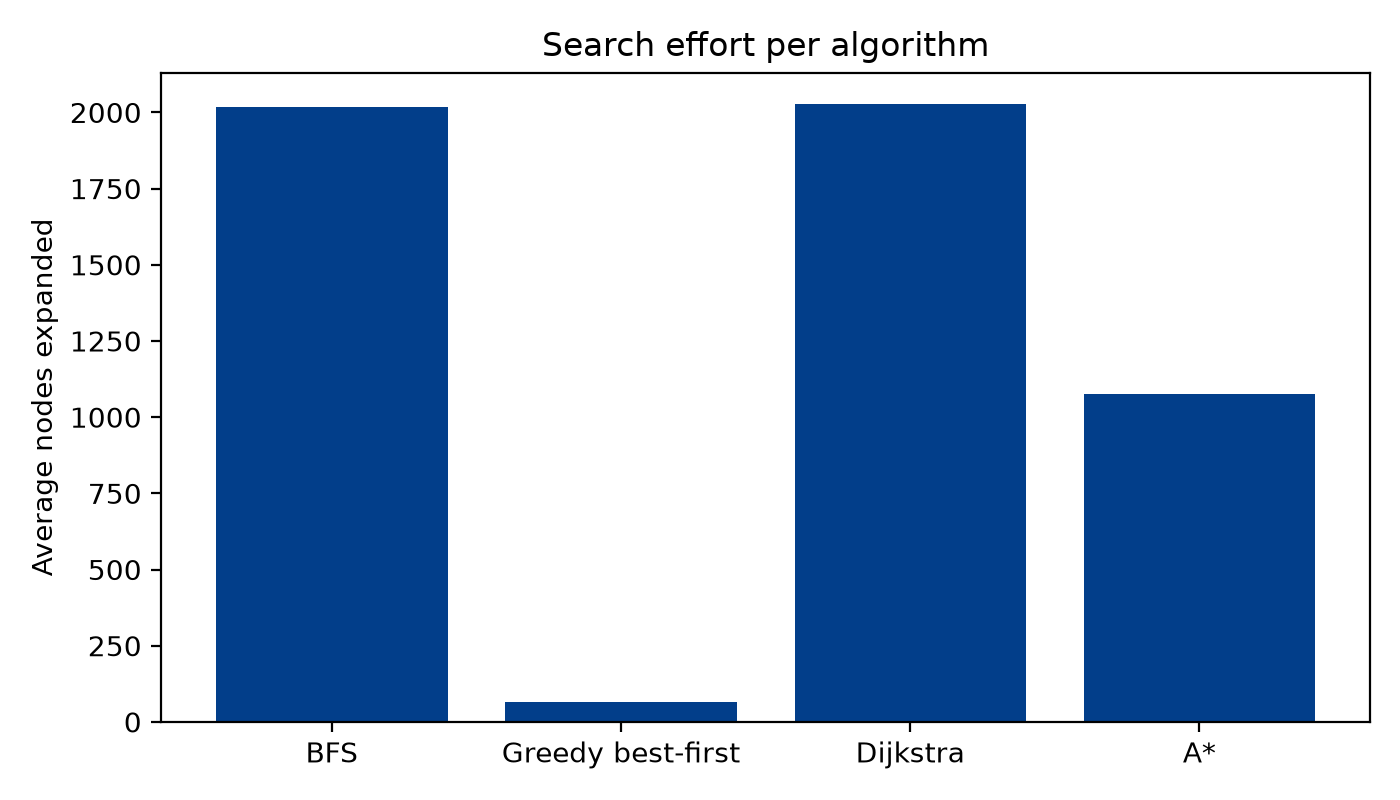
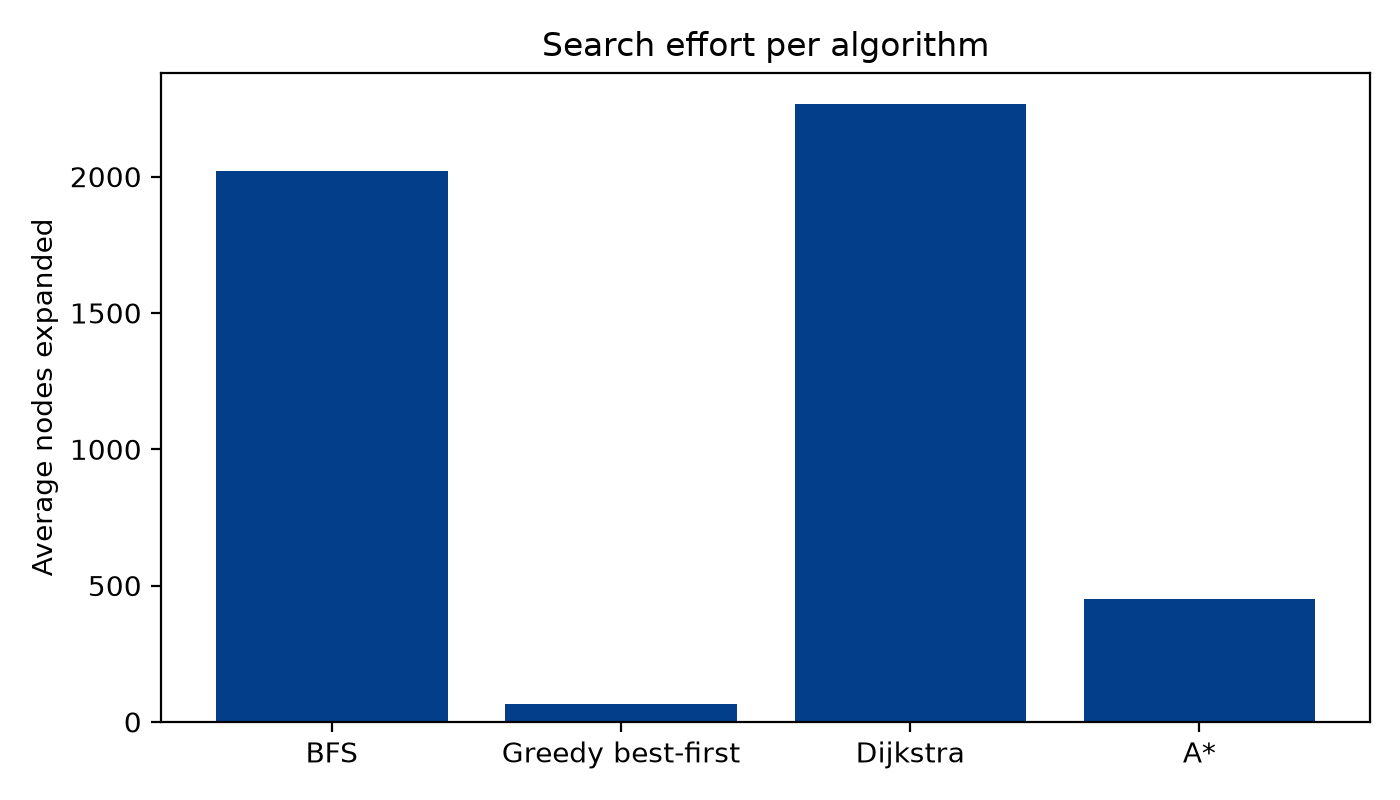
Iloilo route optimizer

diff --git a/README.md b/README.md
@@ -6,7 +6,7 @@ against Mapbox routing on the OpenStreetMap road network.
 
 Case study for ITPD 6 - Artificial Intelligence 1 (Search Algorithms: route optimization).
 
-Live demo: <paste your .streamlit.app link here>
+Live demo: https://iloilo-route-optimizer.streamlit.app/
 
 ## What it does
 
